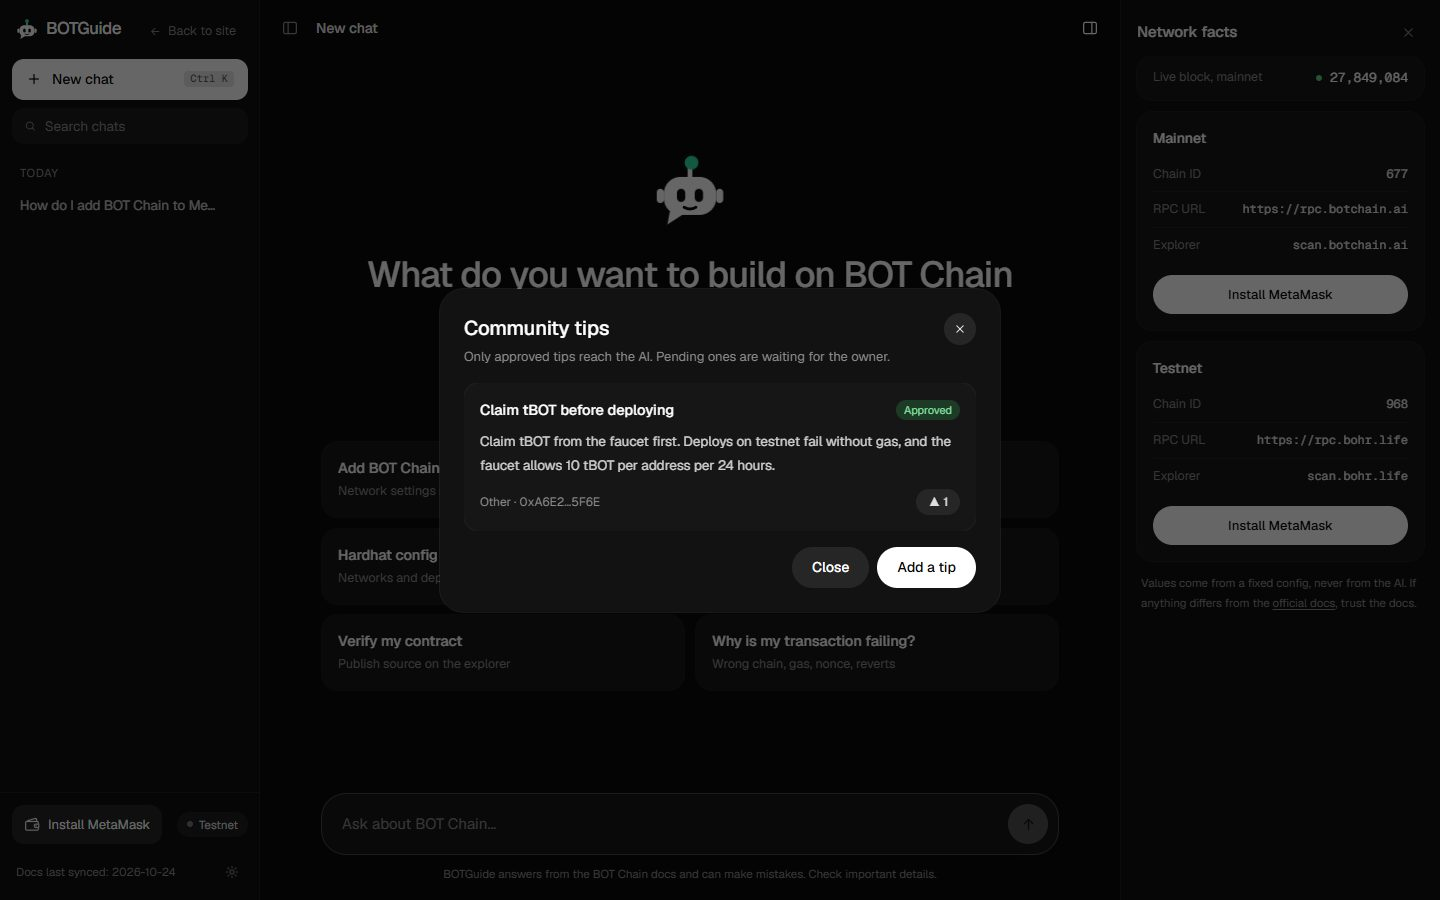
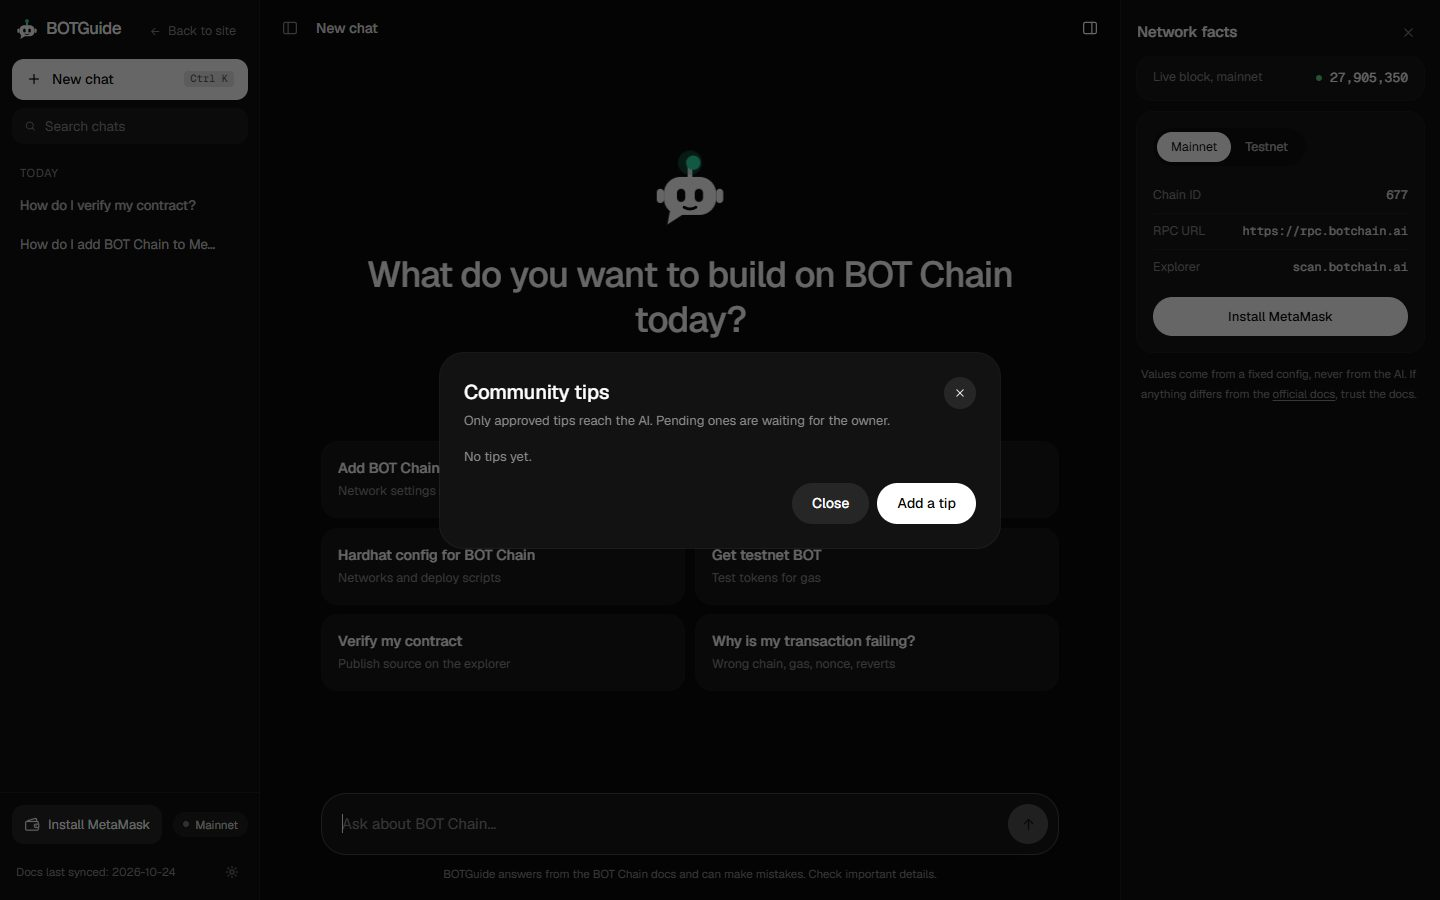
Go live on mainnet: contract 0xe6c8...dd63, app points at chain 677; Groq call retries once; honest support card and empty-state stats; README and screenshots refreshed

diff --git a/components/landing/GetStarted.tsx b/components/landing/GetStarted.tsx
@@ -12,7 +12,7 @@ function ArtBuild() {
       <div className="min-w-0 flex-1 space-y-2 text-[12.5px] leading-5">
         <p className="ml-auto w-fit max-w-full rounded-2xl rounded-br-md bg-white/[0.11] px-3.5 py-2 text-white/90">How do I deploy with Hardhat?</p>
         <p className="w-fit max-w-full rounded-2xl rounded-bl-md bg-white/[0.05] px-3.5 py-2 text-white/75">
-          Add botTestnet to your config
+          Add botMainnet to your config
           <span className="mx-0.5 ml-1.5 inline-grid h-[18px] min-w-[18px] place-items-center rounded bg-accent/15 px-1 font-mono text-[10.5px] text-accent">1</span>
           <span className="mx-0.5 inline-grid h-[18px] min-w-[18px] place-items-center rounded bg-accent/15 px-1 font-mono text-[10.5px] text-accent">2</span>
         </p>
@@ -21,50 +21,24 @@ function ArtBuild() {
   );
 }
 
-// Opaque avatar colours (no transparency, so overlapping avatars never show through each other).
-const PEOPLE = [
-  { from: "#8b93a3", to: "#5a6070" },
-  { from: "#b4a89a", to: "#7a6f63" },
-  null, // the BOTGuide robot sits in the middle
-  { from: "#9aa8a0", to: "#617068" },
-  { from: "#a39ab4", to: "#6b627a" },
-];
-
-function Person({ from, to }: { from: string; to: string }) {
-  return (
-    <svg width="44" height="44" viewBox="0 0 44 44" aria-hidden className="rounded-full">
-      <defs>
-        <linearGradient id={`g-${from.slice(1)}`} x1="0" y1="0" x2="1" y2="1">
-          <stop offset="0" stopColor={from} />
-          <stop offset="1" stopColor={to} />
-        </linearGradient>
-      </defs>
-      <rect width="44" height="44" fill={`url(#g-${from.slice(1)})`} />
-      <circle cx="22" cy="17" r="7.5" fill="rgba(10,10,10,0.55)" />
-      <path d="M6 44c1.5-10 8.5-15 16-15s14.5 5 16 15Z" fill="rgba(10,10,10,0.55)" />
-    </svg>
-  );
-}
+const CHANNELS = ["Telegram", "X, @BOTChain_ai", "Support program"];
 
 function ArtSupport() {
   return (
-    <div className="absolute inset-0 flex flex-col items-center justify-center gap-3.5 px-5">
-      <div className="flex -space-x-2.5">
-        {PEOPLE.map((p, i) => (
+    <div className="absolute inset-0 flex flex-col items-center justify-center gap-4 px-5">
+      <span className="text-white transition-transform duration-500 ease-out group-hover:-translate-y-1 group-hover:rotate-3">
+        <Mascot mood="hello" size={60} />
+      </span>
+      <div className="flex flex-wrap justify-center gap-2">
+        {CHANNELS.map((c, i) => (
           <span
-            key={i}
-            className={`relative overflow-hidden rounded-full ring-[3px] ring-[#101010] transition-transform duration-500 ease-out group-hover:-translate-y-1 ${p ? "" : "z-10 grid size-[50px] -translate-y-1 place-items-center bg-[#222] text-white"}`}
+            key={c}
+            className="rounded-full bg-white/[0.07] px-3.5 py-1.5 text-[12.5px] text-white/80 ring-1 ring-white/[0.08] transition-transform duration-500 ease-out group-hover:-translate-y-0.5"
             style={{ transitionDelay: `${i * 45}ms` }}
           >
-            {p ? <Person {...p} /> : <Mascot mood="hello" size={34} />}
-            {i === 3 && <span className="absolute bottom-0.5 right-0.5 size-2.5 rounded-full bg-[#4ade80] ring-2 ring-[#101010]" />}
+            {c}
           </span>
         ))}
-        <span className="grid size-11 place-items-center rounded-full bg-[#1c1c1c] text-[12px] text-white/70 ring-[3px] ring-[#101010]">+24</span>
-      </div>
-      <div className="w-full max-w-[290px] space-y-1.5 text-[12px] leading-4">
-        <p className="w-fit rounded-2xl rounded-bl-md bg-white/[0.07] px-3 py-1.5 text-white/75">Anyone tried the testnet faucet?</p>
-        <p className="ml-auto w-fit rounded-2xl rounded-br-md bg-white/[0.13] px-3 py-1.5 text-white/90">Yes, 10 tBOT a day. Works fine</p>
       </div>
     </div>
   );

diff --git a/app/guide/route.ts b/app/guide/route.ts
@@ -101,24 +101,34 @@ export async function POST(req: Request) {
   }
   if (!parsed) return bad("invalid_request", 400);
 
-  let upstream: Response;
-  try {
-    upstream = await fetch(GROQ_URL, {
+  const payload = JSON.stringify({
+    model: MODEL,
+    messages: buildMessages(parsed),
+    stream: true,
+    temperature: 0.2,
+    max_tokens: 1400,
+    reasoning_effort: process.env.GROQ_REASONING || "low",
+  });
+  const call = () =>
+    fetch(GROQ_URL, {
       method: "POST",
       headers: { authorization: `Bearer ${key}`, "content-type": "application/json" },
-      body: JSON.stringify({
-        model: MODEL,
-        messages: buildMessages(parsed),
-        stream: true,
-        temperature: 0.2,
-        max_tokens: 1400,
-        reasoning_effort: process.env.GROQ_REASONING || "low",
-      }),
+      body: payload,
       signal: req.signal,
     });
-  } catch {
-    return bad("upstream_unreachable", 502);
+
+  // The free tier now and then drops a request or answers 429 or 5xx; one quick second try hides most of those.
+  let upstream: Response | null = null;
+  for (let attempt = 0; attempt < 2 && !req.signal.aborted; attempt++) {
+    try {
+      upstream = await call();
+      if (upstream.ok || (upstream.status < 500 && upstream.status !== 429)) break;
+    } catch {
+      upstream = null;
+    }
+    if (attempt === 0) await new Promise((r) => setTimeout(r, 700));
   }
+  if (!upstream) return bad("upstream_unreachable", 502);
   if (!upstream.ok || !upstream.body) return bad("upstream_error", 502);
 
   // Groq streams server-sent events. The browser gets plain text only.

diff --git a/components/landing/Stats.tsx b/components/landing/Stats.tsx
@@ -53,8 +53,8 @@ export default function Stats() {
       value: <CountUp to={kbMeta.pages} />,
       caption: DOCS_LAST_SYNCED ? `Doc pages in the knowledge base, synced ${DOCS_LAST_SYNCED}` : "Doc pages in the knowledge base",
     },
-    { value: chain ? <CountUp to={chain.rated} /> : "—", caption: "Answers rated on BOT Chain" },
-    { value: chain ? <CountUp to={chain.tips} /> : "—", caption: "Community tips approved" },
+    { value: chain ? <CountUp to={chain.rated} /> : "—", caption: chain?.rated === 0 ? "Answers rated on BOT Chain. Be the first to rate one." : "Answers rated on BOT Chain" },
+    { value: chain ? <CountUp to={chain.tips} /> : "—", caption: chain?.tips === 0 ? "Community tips approved. The first one is yours." : "Community tips approved" },
     { value: <CountUp to={BLOCK_TIME_SECONDS} decimals={2} suffix="s" />, caption: "Block time, per botchain.ai" },
   ];
   return (

diff --git a/lib/config.ts b/lib/config.ts
@@ -37,11 +37,11 @@ export const TESTNET: Network = {
 };
 
 // Set after each deploy. Empty means "not deployed yet".
-export const MAINNET_CONTRACT_ADDRESS = "";
+export const MAINNET_CONTRACT_ADDRESS = "0xe6c8AF7ad92093b1a329F622789647227c66dd63";
 export const TESTNET_CONTRACT_ADDRESS = "0x015eDcdd020D0834F69048a467A5b40bf8D16aB9";
 
 // Which network ratings and tips live on. Use "testnet" while testing, "mainnet" for the submission.
-export const BOTGUIDE_NETWORK: "mainnet" | "testnet" = "testnet";
+export const BOTGUIDE_NETWORK = "mainnet" as "mainnet" | "testnet";
 
 // Written by `node build-kb.js`. Re-sync right before submitting.
 const SYNCED = (kbMeta as { lastSynced?: string }).lastSynced || null;

diff --git a/components/landing/EcosystemArt.tsx b/components/landing/EcosystemArt.tsx
@@ -134,7 +134,7 @@ export function ArtExplorer() {
             <span className="font-mono text-[12.5px] text-white/90">{b ? `#${formatBlock(b.number)}` : "#—"}</span>
           </span>
           <span className={`font-mono text-[11px] ${i === 0 ? "text-[rgb(var(--tone))]" : "text-white/40"}`}>
-            {b ? `${b.txs} ${b.txs === 1 ? "tx" : "txs"} · ${b.gasUsed < 500 ? "0" : Math.round(b.gasUsed / 1000) + "k"} gas` : "—"}
+            {b ? `${b.txs} tx · ${b.gasUsed < 500 ? "0" : Math.round(b.gasUsed / 1000) + "k"} gas` : "—"}
           </span>
         </div>
       ))}

diff --git a/README.md b/README.md
@@ -8,16 +8,18 @@
 
 Ask a question about BOT Chain (networks, faucet, deploying, tools, common errors) and get a short answer with the doc sections it used. Rate answers 👍/👎 and share tips on BOT Chain. Tips the owner approves become part of what the AI can use. Your chats never leave your browser except to be answered, and they are never on-chain. BOTGuide is a community project and is **not** official BOT Chain documentation.
 
-[Contract (testnet)](https://scan.bohr.life/address/0x015eDcdd020D0834F69048a467A5b40bf8D16aB9) | [How it works](#how-it-works) | [Screens](#screenshots) | [Run it locally](#run-it-locally) | [Deploy](#deploy) | [Limits](#limits-said-plainly)
+[Contract (mainnet)](https://scan.botchain.ai/address/0xe6c8AF7ad92093b1a329F622789647227c66dd63) | [How it works](#how-it-works) | [Screens](#screenshots) | [Run it locally](#run-it-locally) | [Deploy](#deploy) | [Limits](#limits-said-plainly)
 
 ![Solidity](https://img.shields.io/badge/Solidity-0.8.20-363636?logo=solidity&logoColor=white)
 ![Hardhat tests](https://img.shields.io/badge/Hardhat%20tests-13%20passing-2fdba6)
 ![Next.js](https://img.shields.io/badge/Next.js-16-000000?logo=nextdotjs&logoColor=white)
 ![Groq](https://img.shields.io/badge/AI-Groq-f55036)
-![BOT Chain](https://img.shields.io/badge/BOT%20Chain-testnet%20live-2fdba6)
+![BOT Chain](https://img.shields.io/badge/BOT%20Chain-mainnet%20live-2fdba6)
 ![No accounts](https://img.shields.io/badge/accounts-none-1d1c1a)
 
 <img src="docs/shots/landing-hero.jpg" alt="BOTGuide landing page" width="100%" />
+
+<img src="docs/shots/landing-bento.jpg" alt="Live cards: Ask, Deploy, Network, Ecosystem and the latest BOT Chain blocks" width="100%" />
 
 </div>
 
@@ -115,9 +117,9 @@ Ask a question about BOT Chain (networks, faucet, deploying, tools, common error
 | Network | Chain ID | Address |
 | --- | --- | --- |
 | BOT Chain Testnet | 968 | `0x015eDcdd020D0834F69048a467A5b40bf8D16aB9` ([scan.bohr.life](https://scan.bohr.life/address/0x015eDcdd020D0834F69048a467A5b40bf8D16aB9)) |
-| BOT Chain Mainnet | 677 | not deployed yet |
+| BOT Chain Mainnet | 677 | `0xe6c8AF7ad92093b1a329F622789647227c66dd63` ([scan.botchain.ai](https://scan.botchain.ai/address/0xe6c8AF7ad92093b1a329F622789647227c66dd63)) |
 
-The app currently points at the testnet contract. Until an address is set in `lib/config.ts`, rating and tips show a clear "not deployed yet" message and nothing is faked. 13 contract tests pass (`cd contracts && npx hardhat test`).
+The app points at the mainnet contract. It was deployed with the owner's own wallet, and its 18 functions and all events match `BOTGuide.sol` (checked against the deployed bytecode). The testnet contract stays up for testing. If no address is set in `lib/config.ts`, rating and tips show a clear "not deployed yet" message and nothing is faked. 13 contract tests pass (`cd contracts && npx hardhat test`).
 
 ## Project layout
 
@@ -174,13 +176,14 @@ Secrets live only in `.env`, `.env.local` and `contracts/.env`. All are git-igno
 - **Contract (testnet first):** put `PRIVATE_KEY=0x...` of a test wallet in `contracts/.env`, claim tBOT from the [faucet](https://faucet.botchain.ai/basic) (10 tBOT per address per 24 hours), then run `npx hardhat run scripts/deploy.js --network botTestnet`.
 - Put the printed address in `lib/config.ts` (`TESTNET_CONTRACT_ADDRESS` or `MAINNET_CONTRACT_ADDRESS`) and set `BOTGUIDE_NETWORK` to the network you use.
 
-## Mainnet (done by the owner)
+## Mainnet
 
-The mainnet contract is not deployed yet. It must be deployed with the owner's own mainnet wallet, never the testnet deployer. To do it:
+The contract is live on BOT Chain mainnet (chain ID 677) at [`0xe6c8AF7ad92093b1a329F622789647227c66dd63`](https://scan.botchain.ai/address/0xe6c8AF7ad92093b1a329F622789647227c66dd63). The owner (the wallet that deployed it) is the only one who can approve tips. To redeploy or deploy your own copy:
 
-1. Put the owner's `PRIVATE_KEY` in `contracts/.env` and make sure the wallet has BOT for gas. Or open `contracts/contracts/BOTGuide.sol` in Remix: compiler `0.8.20`, EVM version `paris`, optimizer on (200 runs), no constructor arguments, mainnet wallet on chain ID 677.
+1. Put the owner's `PRIVATE_KEY` in `contracts/.env` and make sure the wallet has BOT for gas. Or open `contracts/contracts/BOTGuide.sol` in Remix: compiler `0.8.20`, optimizer on (200 runs), no constructor arguments, mainnet wallet on chain ID 677.
 2. With Hardhat: `npx hardhat run scripts/deploy.js --network botMainnet`.
 3. Put the address in `MAINNET_CONTRACT_ADDRESS` in `lib/config.ts`, set `BOTGUIDE_NETWORK = "mainnet"`, and redeploy the app.
+4. Optional: `CONTRACT=0x... npx hardhat run scripts/seed-tips.js --network botMainnet` adds and approves a few starter tips (owner only; edit the list first).
 
 ## Limits, said plainly
 
@@ -207,7 +210,7 @@ The mainnet contract is not deployed yet. It must be deployed with the owner's o
 
 | Version | Features |
 | --- | --- |
-| **MVP (V1)** | Q&A from the official docs with citations, on-chain ratings and tips, owner approval of tips, testnet |
+| **MVP (V1)** | Q&A from the official docs with citations, on-chain ratings and tips, owner approval of tips, live on mainnet |
 | V1.1 | Deploy the contract to mainnet 677 with the owner's wallet, then switch the app to mainnet |
 | V1.2 | Replace the draft community notes with real ones, then re-sync the docs |
 | V2 | Not decided yet. Ideas: semantic search, more languages |
